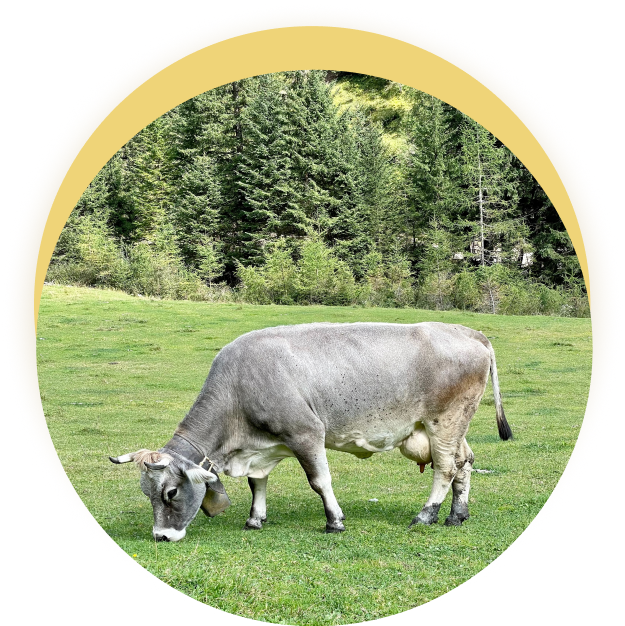
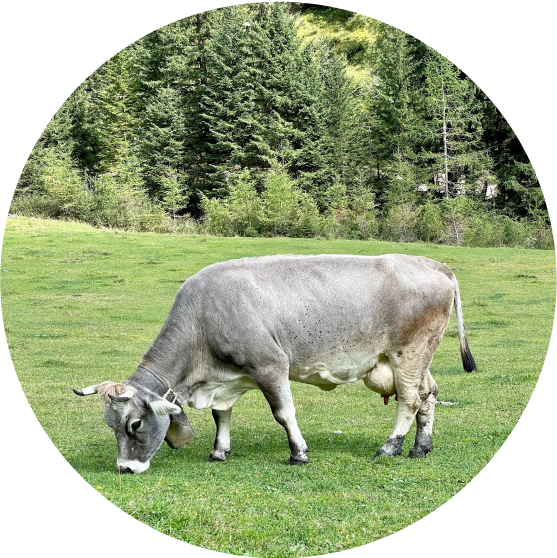
adoptation

diff --git a/src/sass/components/_about.scss b/src/sass/components/_about.scss
@@ -2,6 +2,16 @@
     background-color: #84a178;
     align-items: center;
     text-align: center;
+    padding-top: 60px;
+    padding-bottom: 40px;
+    @media screen and (min-width: 768px) {
+        padding-top: 60px;
+        padding-bottom: 53px;
+    }
+    @media screen and (min-width: 1200px) {
+        padding-top: 60px;
+        padding-bottom: 60px;
+    }
 }
 
 .about__subtitle {
@@ -17,7 +27,7 @@
 .about__title {
     margin: 0 auto;
     width: 200px;
-    margin-bottom: 32px;
+    margin-bottom: 50px;
     font-family: 'Seymour One';
     font-size: 30px;
     line-height: 38px;
@@ -35,27 +45,55 @@
 .about__wrapper {
     @media screen and (min-width: 768px) {
         display: flex;
+        align-items: flex-end;
+        gap: 30px;
+        margin: 0 auto;
     }
 }
 
 .about__wrap {
     margin: 0 auto;
     margin-bottom: 40px;
-    max-width: 280px;
+    width: 280px;
+    position: relative;
     @media screen and (min-width: 768px) {
-        min-width: 335px;
-        gap: 30px;
-        margin-bottom: 0;
+        width: 336px;
+        margin: 0;
+    }
+    @media screen and (min-width: 1200px) {
+        width: 500px;
+    }
+    &::before {
+        content: '';
+        display: block;
+        width: 278px;
+        height: 278px;
+        border-radius: 50%;
+        position: absolute;
+        top: -22px;
+        background-color: #F8D24E;
+        @media screen and (min-width: 768px) {
+            width: 334px;
+            height: 334px;
+            top: -25px;
+        }
+        @media screen and (min-width: 1200px) {
+            width: 500px;
+            height: 500px;
+            top: -39px;
+        }
     }
 }
 
 .about__image {
-    width: 360px;
-    height: 330px;
-    @media screen and (min-width: 768px) {
-        min-width: 336px;
-        min-height: 350px;
-    }
+    width: 100%;
+    position: relative;
+    //     @media screen and (min-width: 768px) {
+    //         width: 336px;
+    //     }
+    //     @media screen and (min-width: 1200px) {
+    //         width: 490px;
+    //     }
 }
 
 .about__text {
@@ -69,7 +107,6 @@
     @media screen and (min-width: 768px) {
         max-width: 336px;
         width: 100%;
-        padding-top: 7px;
         text-align: start;
     }
 }
@@ -78,20 +115,14 @@
     margin-bottom: 8px;
 }
 
-.textwrap-item:last-child {
-    margin-bottom: 20px;
-    @media screen and (min-width: 768px) {
-        margin-bottom: 48px;
-    }
-}
-
 .about__button {
     margin: 0 auto;
-    margin-bottom: 40px;
+    margin-top: 20px;
     font-weight: 600;
     line-height: 1.28;
     @media screen and (min-width: 768px) {
         margin-left: 0;
+        margin-top: 48px;
     }
 }
 

diff --git a/src/sass/components/_advantages.scss b/src/sass/components/_advantages.scss
@@ -5,6 +5,12 @@
     flex-direction: column;
     text-align: center;
     color: #FCFCFC;
+    @media screen and (min-width: 768px) {
+        flex-direction: row;
+        padding-bottom: 40px;
+        gap: 80px;
+        justify-content: space-around;
+    }
 }
 
 .advantages__item {
@@ -21,6 +27,9 @@
     width: 50px;
     height: 50px;
     background-image: url(../images/advantages/cow.png);
+    @media screen and (min-width: 768px) {
+        margin-bottom: 32px;
+    }
 }
 
 .weight::before {
@@ -31,6 +40,9 @@
     width: 50px;
     height: 50px;
     background-image: url(../images/advantages/weight.png);
+    @media screen and (min-width: 768px) {
+        margin-bottom: 32px;
+    }
 }
 
 .ice::before {
@@ -41,6 +53,9 @@
     width: 50px;
     height: 50px;
     background-image: url(../images/advantages/ice.png);
+    @media screen and (min-width: 768px) {
+        margin-bottom: 32px;
+    }
 }
 
 .advantages__uppertext {
@@ -61,4 +76,10 @@
     text-align: center;
     padding-left: 15px;
     padding-right: 15px;
+    @media screen and (min-width: 768px) {
+        max-width: 152px;
+    }
+    @media screen and (min-width: 1200px) {
+        max-width: 300px;
+    }
 }

diff --git a/src/partials/about.html b/src/partials/about.html
@@ -4,13 +4,14 @@
         <h2 class="about__title">HOW IT'S MADE?</h2>
         <div class="about__wrapper">
             <div class="about__wrap">
-                <picture>
+                <picture class="about__image">
                     <source srcset="./images/about/cow-d@1x.png 1x, ./images/about/cow-d@2x.png 2x" media="(min-width:1200px)" />
                     <source srcset="./images/about/cow-t@1x.png 1x, ./images/about/cow-t@2x.png 2x" media="(min-width:768px)" />
                     <source srcset="./images/about/cow-m@1x.png 1x, ./images/about/cow-m@2x.png 2x" media="(min-width:320px)" />
 
                     <img srcset="./images/about/cow-d@1x.png 1x, ./images/about/cow-d@2x.png 2x" src="./images/about/cow-d@1x.png" alt="Sweet Cow" loading="lazy" />
                 </picture>
+
             </div>
             <div class="about__textwrap">
                 <ul class="textwrap-list">
